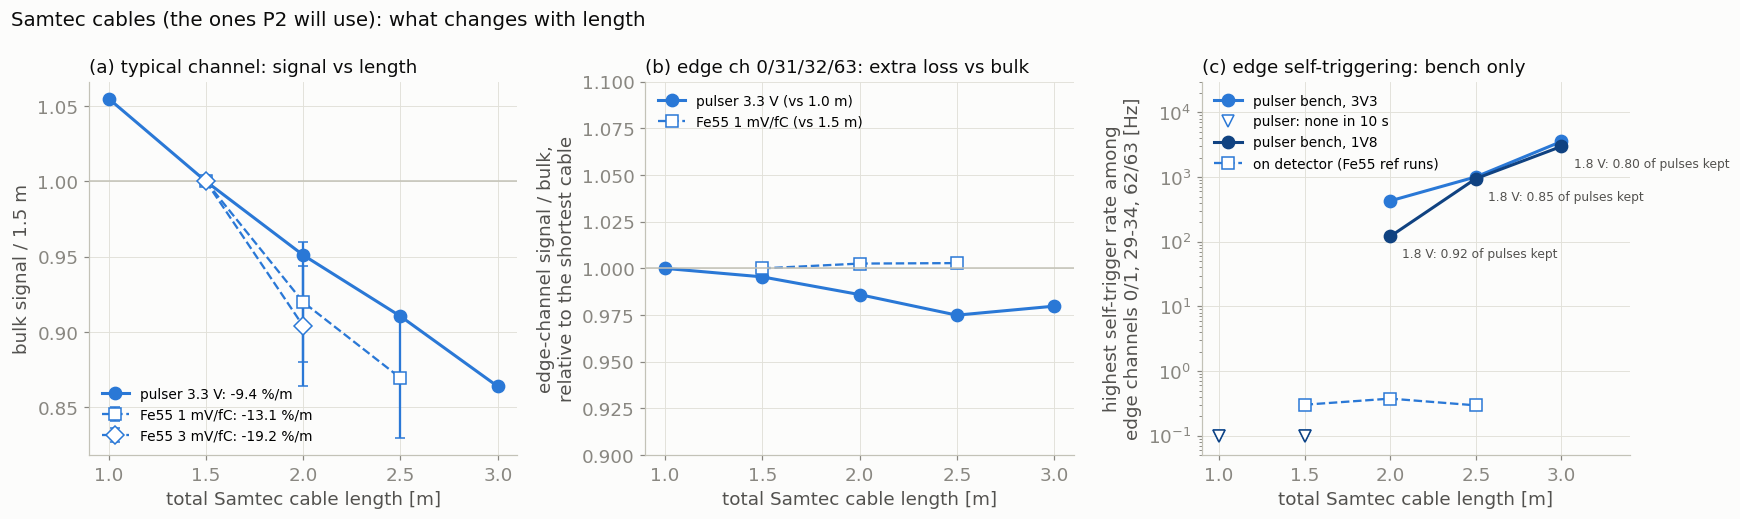
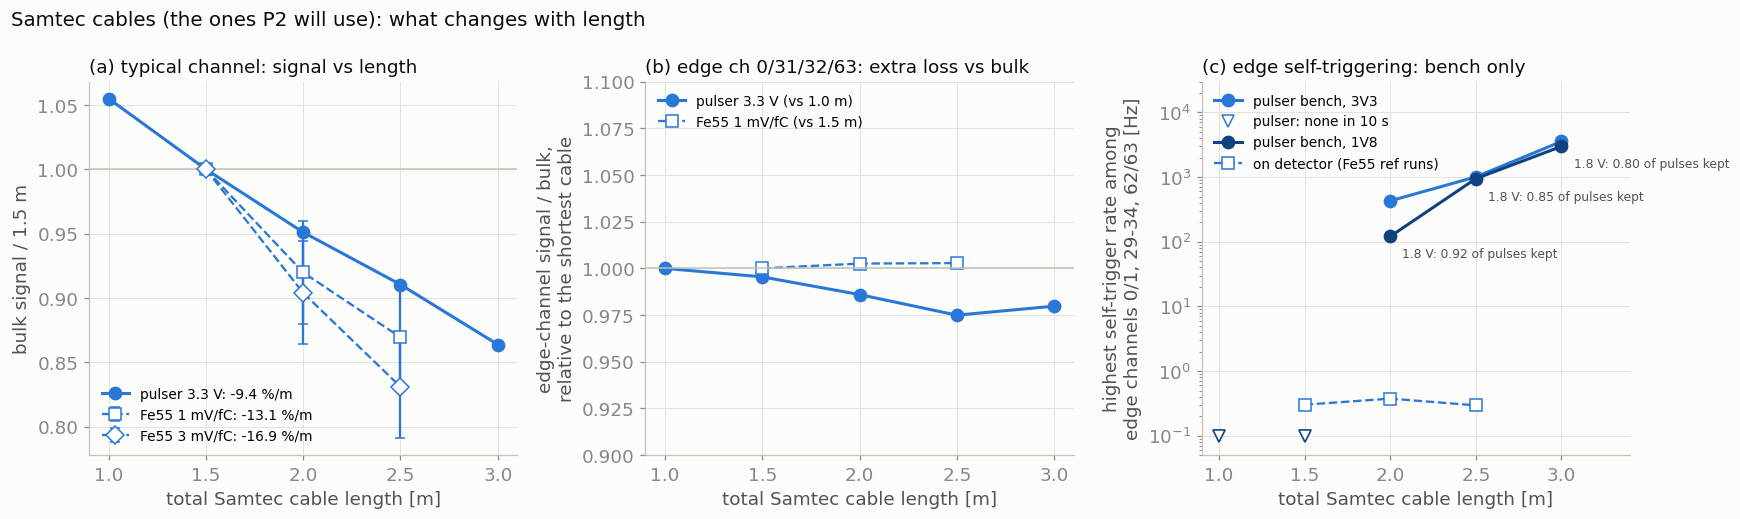
note: cable length — neighbour-trigger noise bench vs detector, bulk-ratio explanation, confounds

diff --git a/notes/unlisted/2026-10-07-cable-length-and-edge-channels-pulser-bench-vs-fe55.html b/notes/unlisted/2026-10-07-cable-length-and-edge-channels-pulser-bench-vs-fe55.html
@@ -9,7 +9,7 @@
 <meta name="category" content="Detector R&amp;D">
 <meta name="keywords" content="VMM,cables,P2,Fe55,pulser,hybrid">
 <meta name="date" content="2026-10-07">
-<meta name="updated" content="2026-10-07">
+<meta name="updated" content="2026-10-08">
 <meta name="visibility" content="unlisted">
 <!-- ======================================================================= -->
 <link rel="stylesheet" href="../../assets/site.css">
@@ -49,8 +49,11 @@
         they <em>start self-triggering</em>: none up to 1.5 m, 0.1–0.4 kHz at 2.0 m, ~1 kHz at 2.5 m and ~3 kHz
         at 3.0 m (total length). Those noise hits (ADC ≈ 120–180) drag any mean or median of the ADC spectrum
         down. With Fe55 on the P2 detector (Samtec 1.5 / 2.0 / 2.5 m), the edge channels behave exactly like the
-        bulk, both in photopeak (within 0.6 %) and in noise (~0.3 Hz). A typical channel loses about
-        9 %/m of signal on the bench and 13 ± 6 %/m with Fe55.</p>
+        bulk, both in photopeak (within 0.6 %) and in noise (~0.3 Hz). <strong>Why only the bench:</strong> the
+        neighbour-trigger hits show the bench is 3–5× noisier than the detector at the same gain, and its edge
+        channels get ~2× noisier again from 2 m on. There the noise reaches the threshold; on the detector it stays far
+        below it (section 6). A typical channel loses about 9 %/m of signal on the bench and 13–17 %/m with Fe55,
+        but both numbers have a confound (see the caveats in the Samtec section).</p>
       </div>
 
       <h2>Samtec: what changes with cable length</h2>
@@ -68,26 +71,42 @@
         <tbody>
           <tr><td>Pulser, bulk signal (3.3 V, /1.5 m)</td><td>1.055</td><td>1</td><td>0.951</td><td>0.910</td><td>0.864</td></tr>
           <tr><td>Fe55, bulk signal (1 mV/fC, /1.5 m, ±4 %)</td><td>–</td><td>1</td><td>0.920</td><td>0.869</td><td>–</td></tr>
+          <tr><td>Fe55, bulk signal (3 mV/fC, /1.5 m, ±4 %)</td><td>–</td><td>1</td><td>0.904</td><td>0.831</td><td>–</td></tr>
           <tr><td>Pulser, edge vs bulk (3.3 V, /1.0 m)</td><td>1</td><td>0.995</td><td>0.986</td><td>0.975</td><td>0.980</td></tr>
           <tr><td>Fe55, edge vs bulk (1 mV/fC, /1.5 m)</td><td>–</td><td>1</td><td>1.003</td><td>1.003</td><td>–</td></tr>
           <tr><td>Pulser, worst edge self-trigger rate (3.3 V)</td><td>none</td><td>none</td><td>0.4 kHz</td><td>1.0 kHz</td><td>3.6 kHz</td></tr>
           <tr><td>Pulser, real pulses kept on worst edge ch. (1.8 V)</td><td>1.00</td><td>1.00</td><td>0.92</td><td>0.85</td><td>0.80</td></tr>
           <tr><td>Detector, worst edge noise rate (no source)</td><td>–</td><td>0.3 Hz</td><td>0.4 Hz</td><td>0.3 Hz</td><td>–</td></tr>
+          <tr><td>Bench noise spread, bulk / worst edge (3 mV/fC) [ADC]</td><td>14.5 / 20</td><td>11 / 20</td><td>19 / 44</td><td>19 / 44</td><td>22 / 45</td></tr>
+          <tr><td>Detector noise spread, bulk / worst edge (3 mV/fC) [ADC]</td><td>–</td><td>4.0 / 4.2</td><td>3.5 / 4.2</td><td>3.5 / 4.0</td><td>–</td></tr>
         </tbody>
       </table>
       </div>
       <p class="muted">* The cable type of the 3.0 m pulser runs (50 cm + 2.5 m) is not in the logbook; they belong
       to the Samtec series and are assumed Samtec. Fit slopes: pulser −8.8 / −9.2 / −9.4 %/m at 1.8 / 2.5 / 3.3 V;
-      Fe55 −13.1 %/m at 1 mV/fC (three points, each ±4 %). The 3 mV/fC Fe55 runs have only 1.5 and 2.0 m
-      (0.904), too few for a slope.</p>
+      Fe55 −13.1 %/m at 1 mV/fC and −16.9 %/m at 3 mV/fC (three points each, ±4 % per point). The 3 mV/fC runs also
+      have 3–5 % saturated hits, which can bias the peak.</p>
+      <div class="callout warn">
+        <p><strong>Two confounds behind the length dependence.</strong></p>
+        <ul>
+          <li><strong>Pulser bench: length vs day.</strong> The 1.0 and 1.5 m runs were taken on 5 June, the 2.0, 2.5 and
+            3.0 m runs on 8 June. The step in noise and the onset of self-triggering both fall between 1.5 and 2.0 m,
+            so part of it may be a different bench setup on the second day. Within 8 June, the self-triggering still
+            grows with length (Samtec 0.4 → 1.0 → 3.6 kHz).</li>
+          <li><strong>Fe55: length vs time.</strong> The Samtec runs were taken in order of increasing length through the
+            afternoon, and the gas gain was not stable between runs (the same Hitachi cable lost 3.6 % in one hour).
+            A downward gain drift would add to the apparent cable loss, which may be why Fe55 (13–17 %/m) comes out
+            steeper than the pulser (9 %/m).</li>
+        </ul>
+      </div>
       <p>What this means for P2 with Samtec:</p>
       <ul>
         <li><strong>Up to 1.5 m</strong> nothing happens at the edges on either setup.</li>
         <li><strong>From 2 m</strong> the pulser bench shows edge self-triggering that grows quickly with length.
           The detector, measured up to 2.5 m, does not. Whether the detector stays quiet with longer cables, or
           in its final grounding, is not measured.</li>
-        <li><strong>Signal:</strong> each extra metre of Samtec costs roughly 9–13 % of the signal on every channel.
-          The edges are not significantly worse.</li>
+        <li><strong>Signal:</strong> each extra metre of Samtec costs roughly 9 % (pulser) to 13–17 % (Fe55, possibly
+          inflated by gain drift) of the signal on every channel. The edges are not significantly worse.</li>
       </ul>
 
       <h2>Data</h2>
@@ -141,6 +160,16 @@
         </div>
       </div>
 
+      <h3>Why the Fe55 edge-ratio plot used to show no 10 % loss</h3>
+      <p>Dividing by the bulk ratio removes the overall cable loss on purpose: the question that plot answers is
+      "does any channel lose <em>more</em> than a typical channel?". The loss itself is in the bulk ratio. The figure in
+      section 4 now shows both: the raw per-channel ratio on top, where the 8 % and 13 % losses are visible as the
+      level of each set of points, and the normalised ratio below.</p>
+      <p><strong>Bulk channels or all channels?</strong> The reference excludes the channels under test, so that an edge
+      effect can't hide inside its own reference. In practice it makes no difference here: the edge channels are 4 out
+      of 64, and the median over all channels equals the bulk median to 0.001 (Samtec 2.0/1.5 m: 0.920 vs 0.920; 2.5/1.5 m:
+      0.869 vs 0.870 at 1 mV/fC).</p>
+
       <h2>1. Which channels are actually pulsed</h2>
       <p>In most June runs the labels <strong>3k+1 and 3k+2 are swapped</strong>: config "3k+1" pulses VMM
       channels 2, 5, …, 62, and "3k+2" pulses 1, 4, …, 61. This is the "mismatch" noted in the logbook.
@@ -175,9 +204,10 @@
 
       <h2>4. Fe55 on the detector: no edge effect</h2>
       <figure>
-        <img src="2026-10-07-cable-length-and-edge-channels-pulser-bench-vs-fe55_files/fe55_edge_ratio_vs_channel_1mVfC.png" alt="Fe55 photopeak ratio between cable lengths per channel, normalised to the bulk ratio">
-        <figcaption>Per-channel Fe55 photopeak, ratio between two cables on the same channel (pad gain cancels),
-        divided by that pair's bulk ratio (see "How to read the plots"). Edge channels sit at 1.00 ± 0.01 for every pair.
+        <img src="2026-10-07-cable-length-and-edge-channels-pulser-bench-vs-fe55_files/fe55_edge_ratio_vs_channel_1mVfC.png" alt="Fe55 photopeak ratio between cable lengths per channel: raw on top, normalised to the bulk ratio below">
+        <figcaption>Per-channel Fe55 photopeak, ratio between two cables on the same channel (pad gain cancels).
+        <strong>Top:</strong> raw ratio; the dashed lines are the bulk ratios (0.920 for 2.0/1.5 m, 0.869 for 2.5/1.5 m), i.e.
+        the cable loss. <strong>Bottom:</strong> divided by the bulk ratio; edge channels sit at 1.00 ± 0.01 for every pair.
         The grey points compare the same Hitachi cable measured twice, as a reference for "no change".</figcaption>
       </figure>
       <figure>
@@ -200,19 +230,47 @@
         the same Hitachi cable re-measured an hour later is 3.6 % lower. Treat the Fe55 cable-to-cable numbers as ±4 %.</figcaption>
       </figure>
 
+      <h2>6. Noise: neighbour-trigger hits, bench vs detector</h2>
+      <p>Both campaigns ran with the neighbour trigger (SNG) on. When a channel fires, its neighbours are read out
+      too, below threshold. Those neighbour hits sample the baseline of a channel at a random moment, plus noise, plus
+      any crosstalk from the channel that fired. Their spread (half the 16–84 % width of the ADC distribution) is
+      therefore a noise measure available in both setups. On the bench I use the unpulsed channels read out at pulse
+      time; on the detector, the SNG hits of the Fe55 runs. The no-source runs give only ~25 neighbour hits per channel,
+      too few.</p>
+      <figure>
+        <img src="2026-10-07-cable-length-and-edge-channels-pulser-bench-vs-fe55_files/noise_bench_vs_detector_3V3.png" alt="Spread of neighbour-trigger hits vs channel for the pulser bench and the detector, and vs cable length">
+        <figcaption>(a) Bench, Samtec, 3 mV/fC. (b) Detector, Samtec, Fe55 at 3 mV/fC. Same y-axis.
+        (c) Bulk median and worst edge channel vs length for both.</figcaption>
+      </figure>
+      <ul>
+        <li><strong>The bench is 3–5× noisier</strong> at the same gain: bulk spread 11–22 ADC against ~4 ADC on the detector.</li>
+        <li><strong>On the bench the edge channels are the noisiest,</strong> and from 2 m they jump from ~20 to ~45 ADC. On the
+          detector the edges are like the bulk (≤ 4.2 ADC) and nothing changes from 1.5 to 2.5 m.</li>
+        <li><strong>It is noise, not crosstalk from the pulses.</strong> The level of the neighbour hits rises with the pulser
+          voltage (62 → 72 ADC from 1.8 to 3.3 V: that part is crosstalk). The spread does not change with the voltage
+          (e.g. 2.0 m: 17.5 / 17.5 / 19.0 ADC at 1.8 / 2.5 / 3.3 V).</li>
+      </ul>
+      <p>This explains the self-triggering in numbers. The threshold sits at ~150 ADC on the bench and ~140 ADC on the
+      detector, with the baseline at ~65 and ~48 ADC, so the margin is ~85–90 ADC in both. On the detector that is more
+      than 20 times the noise spread: the noise never reaches threshold. On the bench it is ~4–8 times the bulk spread,
+      ~4.5 times on the edge channels up to 1.5 m (a few tens of Hz were seen on Hitachi 1.5 m) and only ~2 times on the
+      edge channels from 2 m: those channels fire on noise at the kHz level.</p>
+
       <h2>What the two measurements agree and disagree on</h2>
       <div style="overflow-x:auto">
       <table>
         <thead><tr><th></th><th>Pulser</th><th>Fe55</th></tr></thead>
         <tbody>
-          <tr><td>Typical-channel loss per metre (Samtec)</td><td>~9 %/m</td><td>~13 ± 6 %/m</td></tr>
+          <tr><td>Typical-channel loss per metre (Samtec)</td><td>~9 %/m (length and day confounded)</td><td>13–17 %/m (length and gain drift confounded)</td></tr>
+          <tr><td>Noise spread at 3 mV/fC, bulk / edge</td><td>11–22 / up to 45 ADC, grows with length</td><td>~4 / ~4 ADC, flat</td></tr>
           <tr><td>Hitachi vs Samtec (reference only)</td><td>Hitachi better</td><td>Hitachi better</td></tr>
           <tr><td>Edge channels lose more signal with length (Samtec)</td><td><strong>≤ 2.5 %</strong> at 3 m (section 2)</td><td><strong>No</strong>, &lt; 0.6 % at 2.5 m (section 4)</td></tr>
           <tr><td>Edge channels self-trigger on long cables</td><td><strong>Yes</strong> (section 3)</td><td><strong>No</strong> (section 4)</td></tr>
         </tbody>
       </table>
       </div>
-      <p>So the two campaigns don't disagree about signal loss. The only real difference is the noise.</p>
+      <p>So both campaigns see a signal loss with length on every channel. The Fe55 loss comes out steeper, possibly
+      because of gas-gain drift. Neither sees a significant extra loss at the edges. The real difference is the noise.</p>
 
       <h2>Why the edge channels look "lost" in the pulser data</h2>
       <p>The real pulse is still there on those channels, within ~2.5 % of the usual amplitude. But they also produce many
@@ -230,8 +288,17 @@
       </ul>
 
       <h2>Why it happens on the pulser bench and not on the detector</h2>
-      <p>What these data show for sure: the same type of cable, at a similar length and a comparable threshold,
-      oscillates on the bench and doesn't on the detector. They don't show <em>why</em>. Candidate explanations:</p>
+      <p>What the data show:</p>
+      <ol>
+        <li><strong>The bench is noisier everywhere,</strong> by 3–5× at the same gain, and the noise grows with cable
+          length, most on the edge channels (section 6). On the detector the same kind of cable adds no noise up to 2.5 m.</li>
+        <li><strong>The self-triggering is just that noise crossing the threshold.</strong> On the bench edge channels from
+          2 m the margin is only ~2× the noise spread; on the detector it is &gt;20×.</li>
+        <li><strong>It doesn't need the pulses.</strong> One bench run recorded no pulses at all (Hitachi 50 cm + 2 m, 1.8 V,
+          8 June 17:05), and channels 0–2 still fired at ~30 kHz.</li>
+      </ol>
+      <p>So the bench chain picks up much more noise than the detector, and the long cable makes it worse. What the data
+      don't show is <em>where the bench noise comes from</em>. Candidate explanations:</p>
       <ul>
         <li><strong>What sits at the far end of the cable.</strong> On the detector the VMM input sees a pad: a
           capacitance to the mesh, tied to the detector ground. On the bench it sees the pulser injection network
@@ -260,6 +327,9 @@
           channels still oscillate.</li>
         <li>Add a ground strap between the pulser board and the hybrid.</li>
         <li>Use one long transmission cable without the 50 cm injection cable and the joint.</li>
+        <li>Retake the short-cable (1.0 and 1.5 m) bench runs on the same day and setup as the long ones, to separate
+          length from day.</li>
+        <li>For Fe55, interleave the lengths (e.g. 1.5 → 2.5 → 2.0 → 1.5 m), so a gain drift can be measured and removed.</li>
       </ol>
 
       <h2>Open points</h2>

diff --git a/notes/hub-all-7c1e9a4d.html b/notes/hub-all-7c1e9a4d.html
@@ -39,7 +39,7 @@
 <main class="wrap">
   <div class="hub-head">
     <h1>All notes (incl. unlisted)</h1>
-    <span class="muted small">28 notes · 6 categories · last update 2026-10-07</span>
+    <span class="muted small">28 notes · 6 categories · last update 2026-10-08</span>
   </div>
   <p class="muted">Everything I have written up as an HTML page, newest first. Filter by category or search by title, tag or text.</p>
 
@@ -51,6 +51,17 @@
   </div>
 
   <ul class="notes" id="list">
+      <li class="note" data-cat="Detector R&amp;D" data-search="cable length and edge channels: pulser bench vs fe55 the pulser edge-channel &#x27;breakdown&#x27; on long off-detector cables is self-triggering noise, not signal loss; no edge effect with fe55 on the p2 detector detector r&amp;d vmm cables p2 fe55 pulser hybrid unlisted/2026-10-07-cable-length-and-edge-channels-pulser-bench-vs-fe55.html" data-date="2026-10-07">
+        <div class="note-main">
+          <a class="note-title" href="unlisted/2026-10-07-cable-length-and-edge-channels-pulser-bench-vs-fe55.html">Cable length and edge channels: pulser bench vs Fe55</a>
+          <p class="note-desc">The pulser edge-channel &#x27;breakdown&#x27; on long off-detector cables is self-triggering noise, not signal loss; no edge effect with Fe55 on the P2 detector</p>
+          <div class="meta-row small">
+            <span class="pill">Detector R&amp;D</span><span class="pill" style="background:#fde8e8;color:#b42318">unlisted</span><span class="pill gray">VMM</span><span class="pill gray">cables</span><span class="pill gray">P2</span><span class="pill gray">Fe55</span><span class="pill gray">pulser</span><span class="pill gray">hybrid</span>
+            <span class="faint">unlisted/2026-10-07-cable-length-and-edge-channels-pulser-bench-vs-fe55.html · 25.6 kB</span>
+          </div>
+        </div>
+        <time class="note-date" datetime="2026-10-07">2026-10-07<span class="faint small"> · updated 2026-10-08</span></time>
+      </li>
       <li class="note" data-cat="Detector R&amp;D" data-search="vmm3a / srs data flow — schematics how a hit travels from detector strip to udp packet, and how the absolute hit timestamp is reconstructed — four reference schematics for vmm3a/srs pcapng analysis. detector r&amp;d vmm3a srs daq readout timestamp p2-basket 2026-10-07-vmm3a-srs-data-flow-schematics.html" data-date="2026-10-07">
         <div class="note-main">
           <a class="note-title" href="2026-10-07-vmm3a-srs-data-flow-schematics.html">VMM3a / SRS data flow — schematics</a>
@@ -58,17 +69,6 @@
           <div class="meta-row small">
             <span class="pill">Detector R&amp;D</span><span class="pill gray">vmm3a</span><span class="pill gray">srs</span><span class="pill gray">daq</span><span class="pill gray">readout</span><span class="pill gray">timestamp</span><span class="pill gray">p2-basket</span>
             <span class="faint">2026-10-07-vmm3a-srs-data-flow-schematics.html · 9.0 kB</span>
-          </div>
-        </div>
-        <time class="note-date" datetime="2026-10-07">2026-10-07<span class="faint small"></span></time>
-      </li>
-      <li class="note" data-cat="Detector R&amp;D" data-search="cable length and edge channels: pulser bench vs fe55 the pulser edge-channel &#x27;breakdown&#x27; on long off-detector cables is self-triggering noise, not signal loss; no edge effect with fe55 on the p2 detector detector r&amp;d vmm cables p2 fe55 pulser hybrid unlisted/2026-10-07-cable-length-and-edge-channels-pulser-bench-vs-fe55.html" data-date="2026-10-07">
-        <div class="note-main">
-          <a class="note-title" href="unlisted/2026-10-07-cable-length-and-edge-channels-pulser-bench-vs-fe55.html">Cable length and edge channels: pulser bench vs Fe55</a>
-          <p class="note-desc">The pulser edge-channel &#x27;breakdown&#x27; on long off-detector cables is self-triggering noise, not signal loss; no edge effect with Fe55 on the P2 detector</p>
-          <div class="meta-row small">
-            <span class="pill">Detector R&amp;D</span><span class="pill" style="background:#fde8e8;color:#b42318">unlisted</span><span class="pill gray">VMM</span><span class="pill gray">cables</span><span class="pill gray">P2</span><span class="pill gray">Fe55</span><span class="pill gray">pulser</span><span class="pill gray">hybrid</span>
-            <span class="faint">unlisted/2026-10-07-cable-length-and-edge-channels-pulser-bench-vs-fe55.html · 19.1 kB</span>
           </div>
         </div>
         <time class="note-date" datetime="2026-10-07">2026-10-07<span class="faint small"></span></time>
